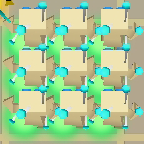
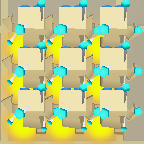
Add more igv troops

diff --git a/src/redux/gameData/initialState.js b/src/redux/gameData/initialState.js
@@ -32,6 +32,7 @@ const initialState = {
       grade: "fod3",
       id: "aPHf",
       image: "/img/aow-troops/nun.png",
+      boardImage: "/img/aow-troops-igv/nun.png",
       name: "Nun",
       race: "HVSp",
       count: 9,
@@ -165,6 +166,7 @@ const initialState = {
       grade: "3XE9",
       id: "KSiE",
       image: "/img/aow-troops/inquisitor.png",
+      boardImage: "/img/aow-troops-igv/inquisitor.png",
       name: "Inquisitor",
       race: "z18Y",
       count: 9,
@@ -291,6 +293,7 @@ const initialState = {
       grade: "fod3",
       id: "ZMFE",
       image: "/img/aow-troops/templarknight.png",
+      boardImage: "/img/aow-troops-igv/templarknight.png",
       name: "Templar Knight",
       race: "z18Y",
       count: 1,
@@ -317,6 +320,7 @@ const initialState = {
       grade: "fod3",
       id: "EwWV",
       image: "/img/aow-troops/tauruswitcher.png",
+      boardImage: "/img/aow-troops-igv/tauruswitcher.png",
       name: "Taurus Witcher",
       race: "u2TP",
       count: 9,
@@ -406,6 +410,7 @@ const initialState = {
       grade: "BB4h",
       id: "IKOP",
       image: "/img/aow-troops/pharaoh.png",
+      boardImage: "/img/aow-troops-igv/pharaoh.png",
       name: "Pharaoh",
       race: "HVSp",
       count: 1,
